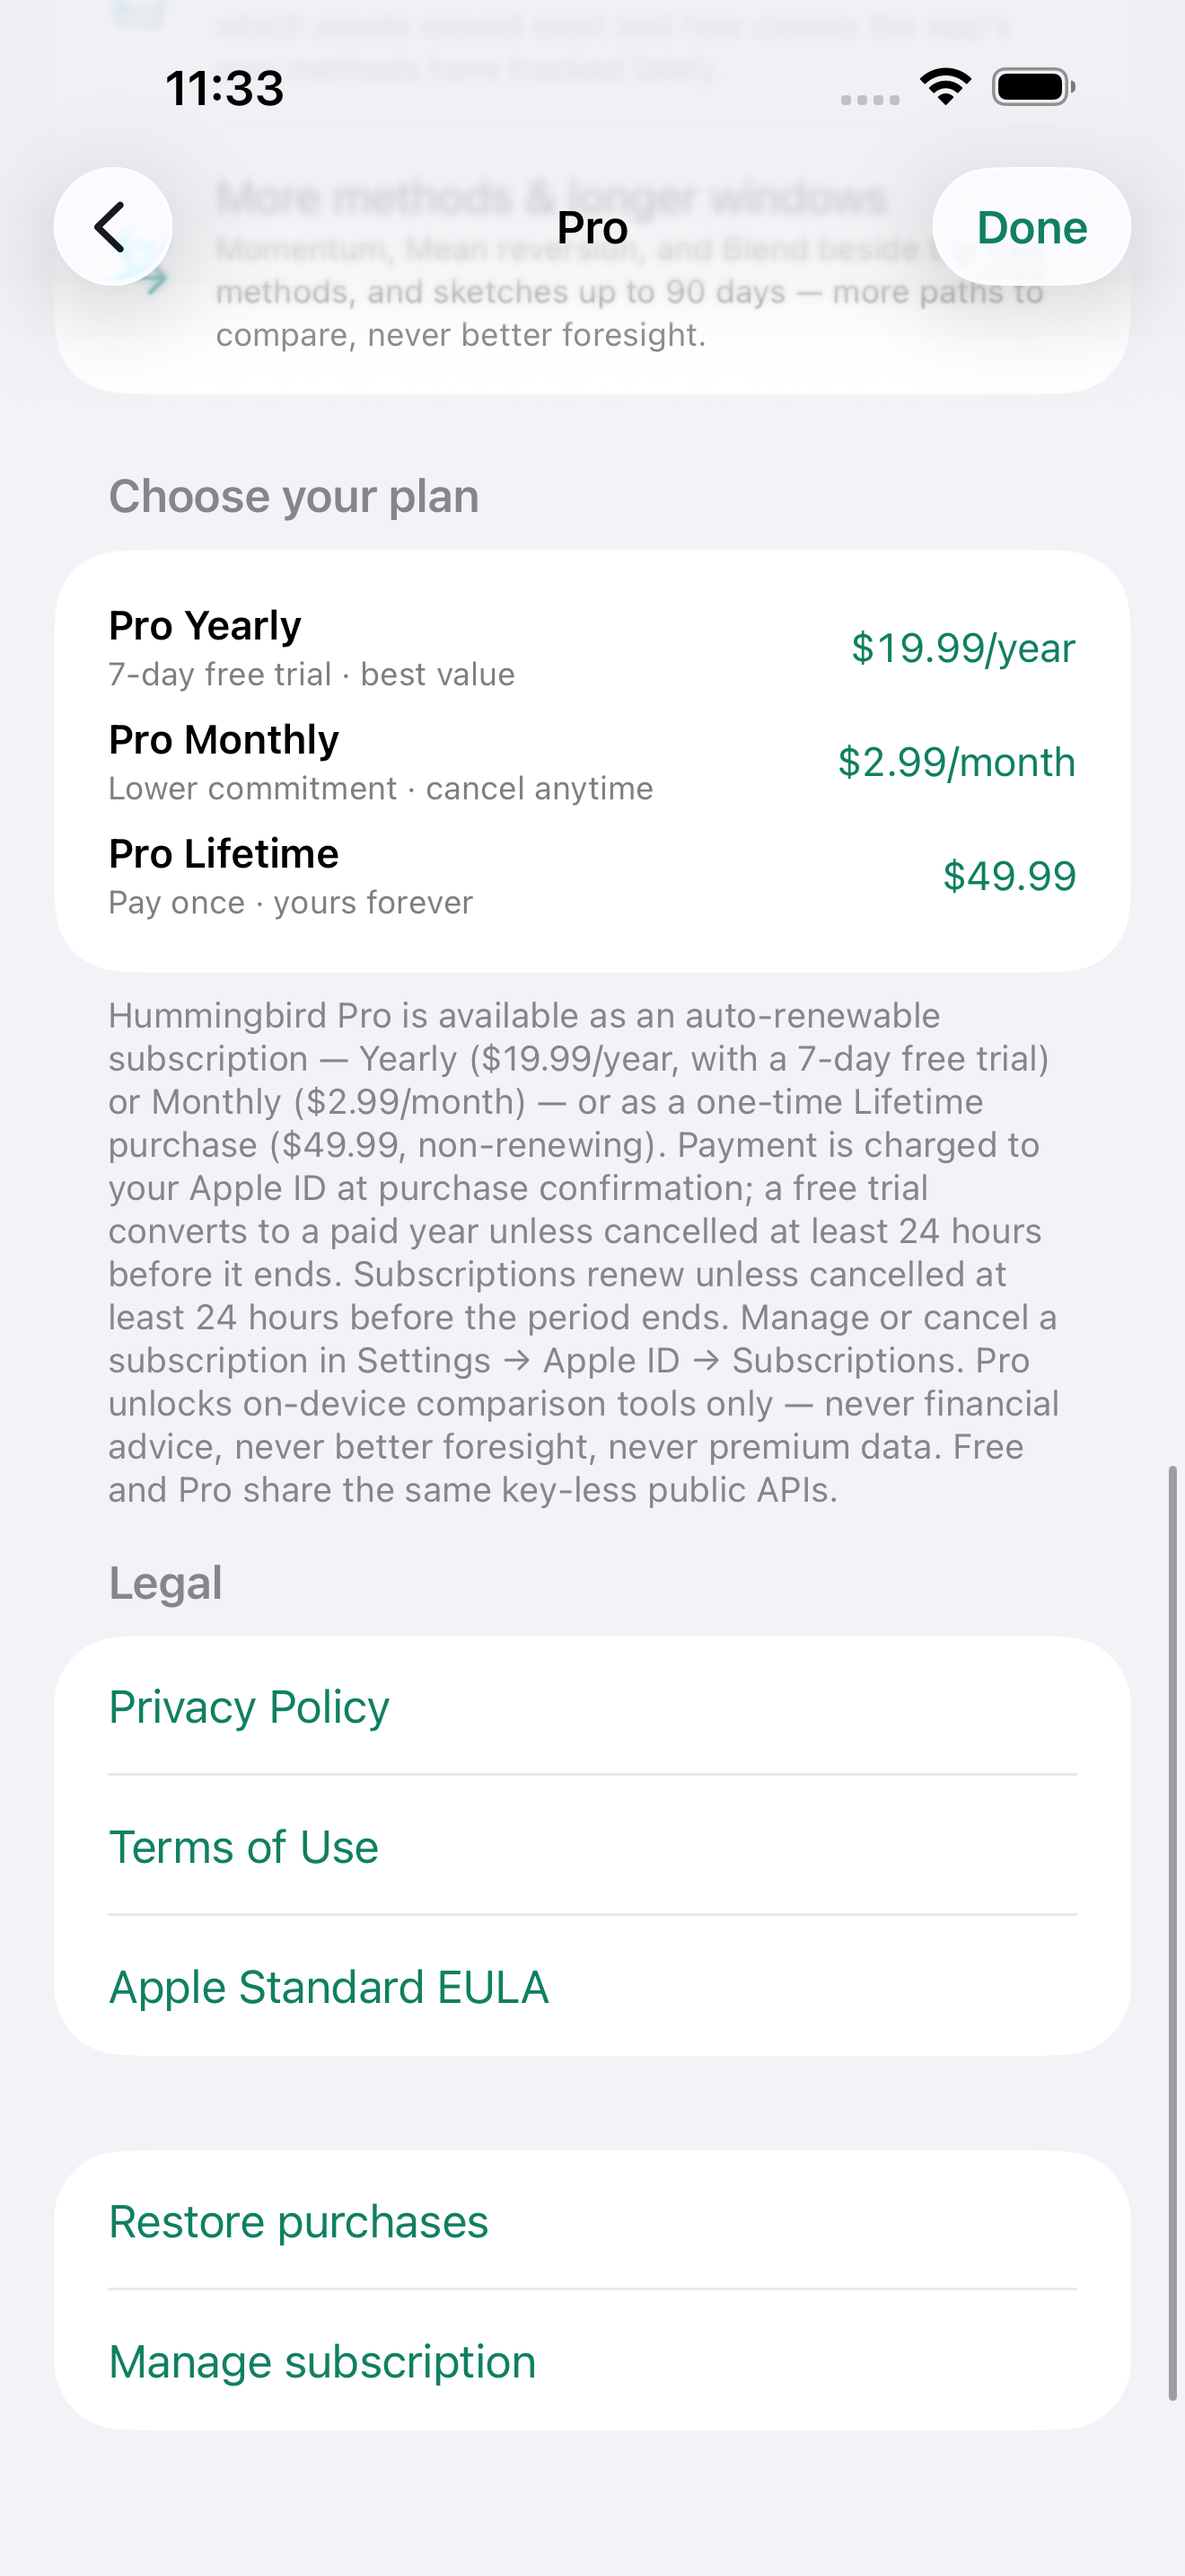
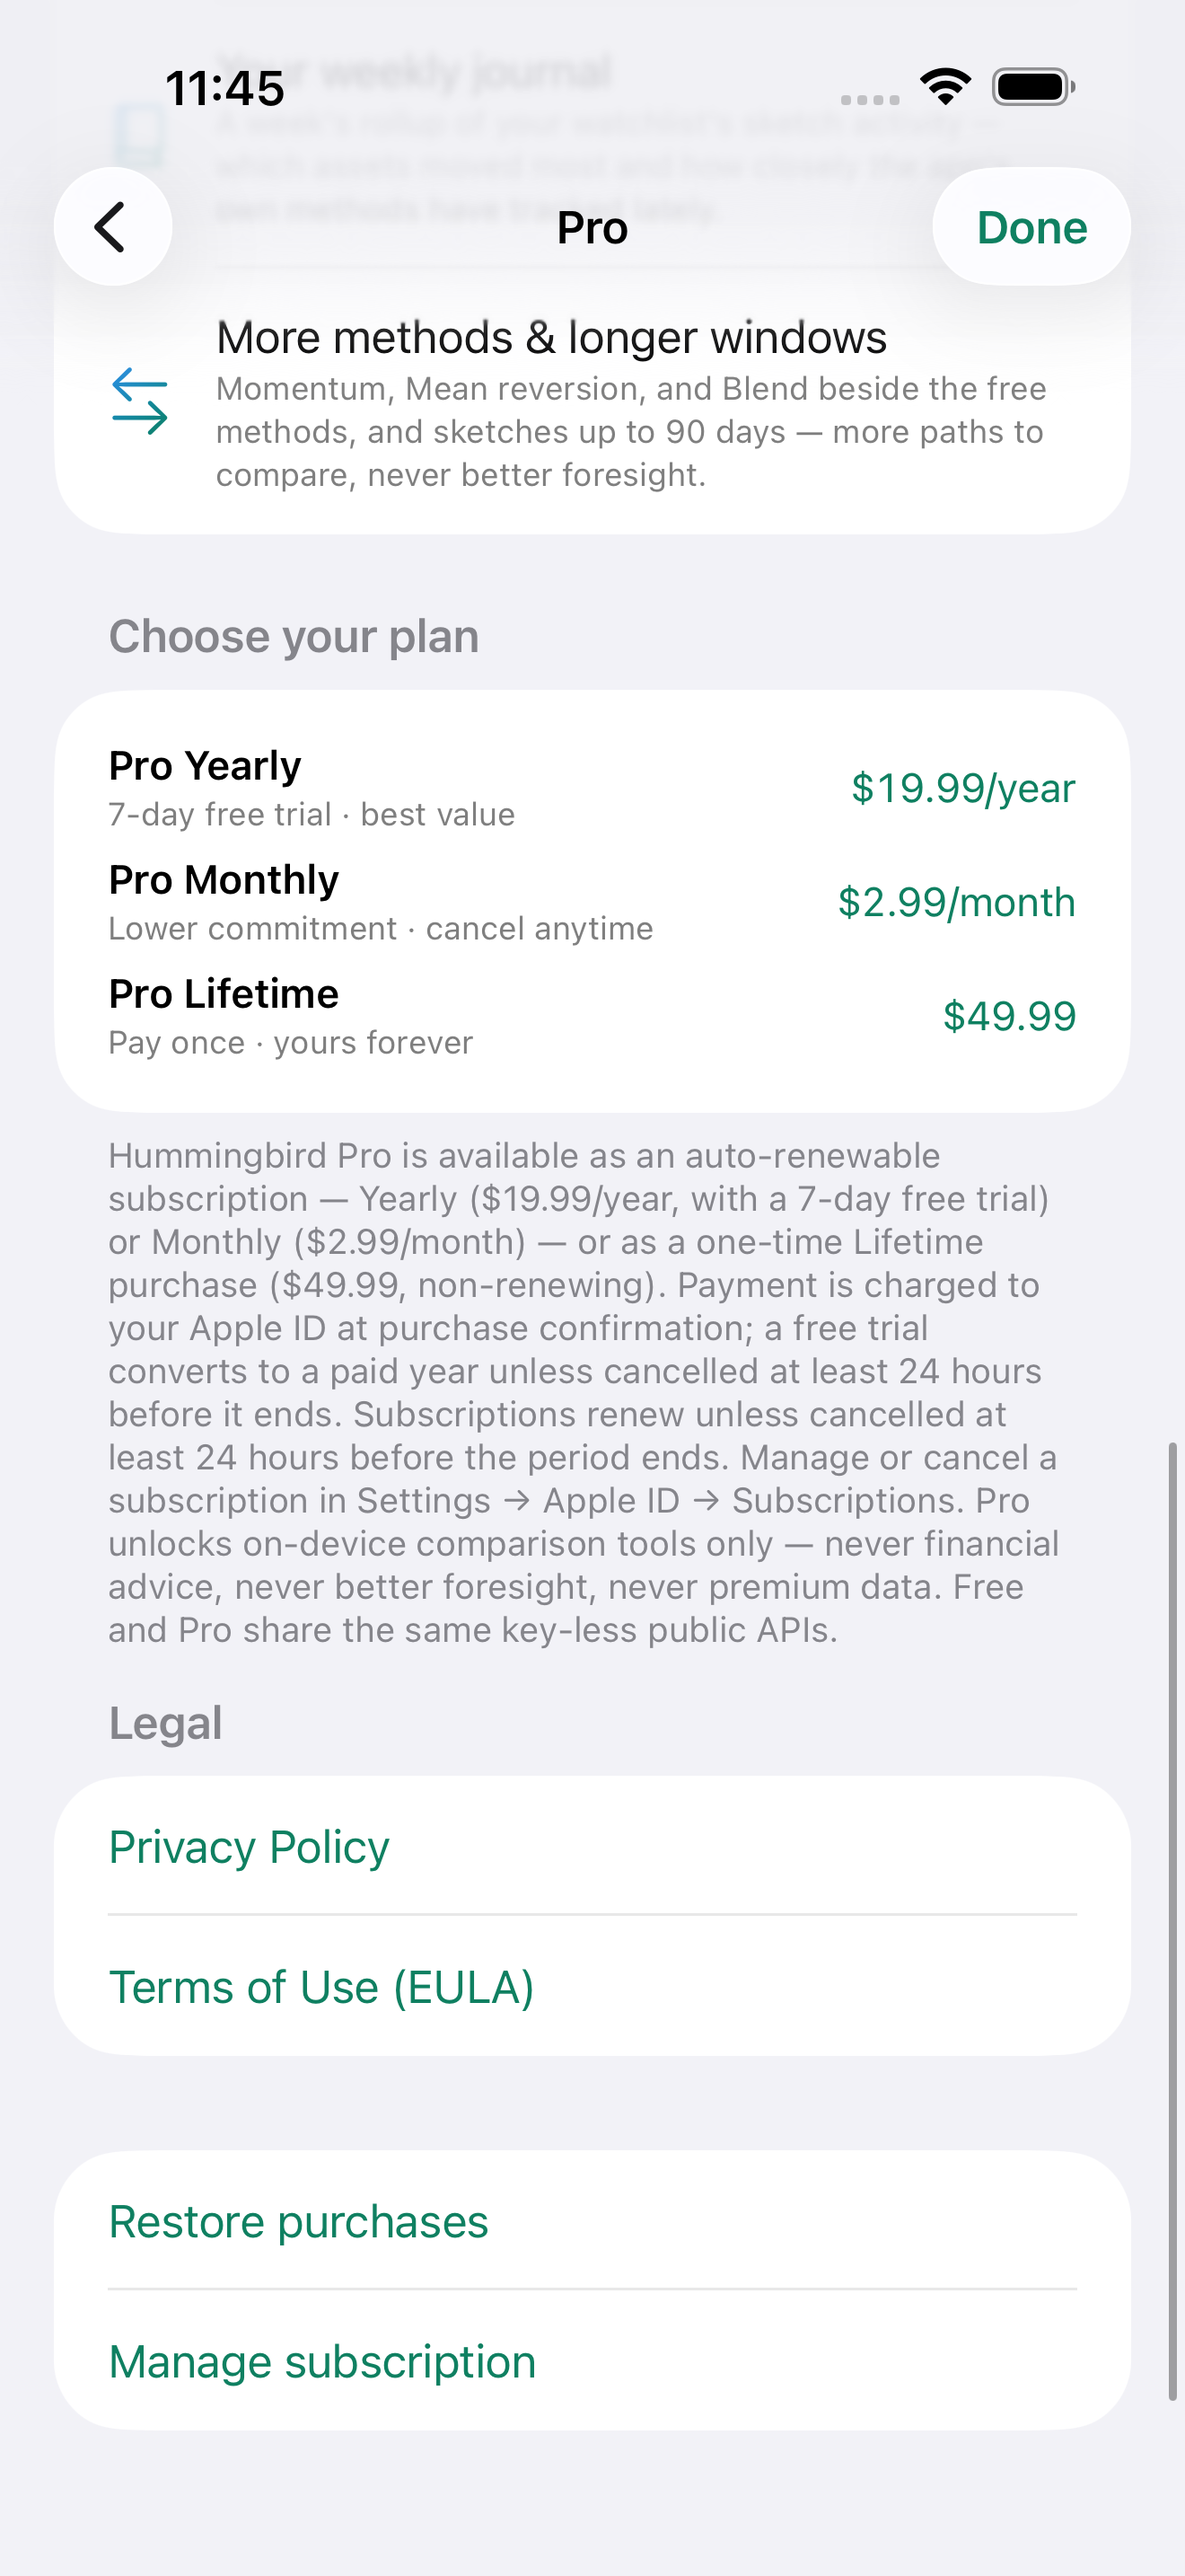
Guideline 3.1.2: functional Terms of Use (EULA) link on every surface
The prior app was rejected on 3.1.2 for a missing Terms-of-Use link in the
product-page metadata. Closes every gap:

- App Description (METADATA.md) now ends with plain-text 'Privacy Policy:' and
  'Terms of Use (EULA):' https:// lines — Apple renders these tappable on the
  product page. Description also states subscription price/period/renewal.
- RELEASE.md: blocking 3.1.2 pre-flight checklist — set ASC License Agreement
  to CUSTOM (terms.html), Privacy Policy URL, verify both return HTTP 200.
- PaywallView: Legal section keeps working Privacy Policy + 'Terms of Use
  (EULA)' rows by the buy buttons; dropped the redundant standalone 'Apple
  Standard EULA' link (the custom TERMS.md already incorporates Apple's
  standard Licensed Application EULA by reference).
- Review notes point the reviewer at all three EULA locations.
- Screenshots 07/08 regenerated for the cleaned Legal section.

315 tests pass, 0 warnings.

Claude-Session: https://claude.ai/code/session_01JU5zcJbM2TTYxVaBMQ7gym

diff --git a/Hummingbird/Views/Monetization/PaywallView.swift b/Hummingbird/Views/Monetization/PaywallView.swift
@@ -151,10 +151,14 @@ struct PaywallView: View {
                 Text(subscriptionFooter)
             }
 
+            // Guideline 3.1.2: an auto-renewable subscription needs functional
+            // Privacy Policy + Terms of Use (EULA) links right by the purchase.
+            // "Terms of Use" opens the bundled custom EULA, which itself
+            // incorporates Apple's standard Licensed Application EULA by
+            // reference — so a separate Apple-EULA link would be redundant.
             Section("Legal") {
                 Button("Privacy Policy") { legalPath = .privacy }
-                Button("Terms of Use") { legalPath = .terms }
-                Link("Apple Standard EULA", destination: URL(string: "https://www.apple.com/legal/internet-services/itunes/dev/stdeula/")!)
+                Button("Terms of Use (EULA)") { legalPath = .terms }
             }
 
             Section {

diff --git a/RELEASE.md b/RELEASE.md
@@ -32,8 +32,10 @@ GitHub Pages on a private repo needs GitHub Pro. Simplest: **make the repo publi
 - [ ] **Subtitle:** `Honest on-device price sketch` (29 chars — see `AppStore/METADATA.md`)
 - [ ] **Keywords:** `bitcoin,ethereum,xrp,ticker,portfolio,market,finance,trend,widget,alert,tracker,price,etf,forecast` (98 chars)
 - [ ] **Category:** Finance (primary), Education (secondary) · **Age:** 4+
-- [ ] Description / promo text / keywords → paste from `AppStore/METADATA.md`
-- [ ] **Privacy Policy URL:** `https://avaj845.github.io/Hummingbirdv1/privacy.html`
+- [ ] Description / promo text / keywords → paste from `AppStore/METADATA.md` — **the Description already ends with `Privacy Policy:` and `Terms of Use (EULA):` https:// lines. Keep them.** (This is the 3.1.2 fix — see below.)
+- [ ] **Privacy Policy URL** (App Information): `https://avaj845.github.io/Hummingbirdv1/privacy.html`
+- [ ] **License Agreement** (App Information) → **Custom** → `https://avaj845.github.io/Hummingbirdv1/terms.html` — **NOT "Standard Apple EULA".** ⚠ **Skipping this = automatic 3.1.2 rejection** for a subscription app.
+- [ ] **Both URLs return HTTP 200** — check in a browser before submitting. If the repo is private, GitHub Pages needs GitHub Pro; make the repo public or enable Pages (§1).
 - [ ] **App Privacy** ("nutrition label"): **Data Not Collected** (no account, no tracking)
 - [ ] **Screenshots** — raw re-shoot is **done**: `AppStore/raw-screens/*.png` are 12 real captures of the *current* UI (1320×2868, from the `HummingbirdUITests` harness — regenerate with the command in `AppStore/METADATA.md` §Screenshots). What's left is a **design pass**: add marketing frames + captions, pick the 3–5 strongest, order honesty-first (`11_accuracy_report` → `05_sketch_result` → `06_reliability` → `12_watchlist` → `04_home_empty`). Upload to the **6.9″** slot + set the 1024 icon (`sh AppStore/icon/render.sh`). The old `AppStore/0*_*.png` predate the round-1/2 UI and must not ship.
 
@@ -70,10 +72,19 @@ xcodebuild -project Hummingbird.xcodeproj -scheme Hummingbird \
 - [ ] Wait for the build to finish **processing** in App Store Connect (~10–30 min).
 
 ## 6 · Submit for review
-- [ ] Attach the processed build to the version, attach the subscription to the submission.
+- [ ] Attach the processed build to the version; attach **all three** Pro products (Yearly, Monthly, Lifetime) to the submission.
 - [ ] **App Review notes:** paste the "Review notes" block from `AppStore/METADATA.md`
       (educational tool, not advice, no trading, no accounts).
 - [ ] **Submit.** Review typically takes ~24–48h.
+
+### 3.1.2 pre-flight (do NOT submit until every box is checked)
+The last app was rejected on 3.1.2 for a missing Terms-of-Use link. All of these must be true:
+- [ ] The **App Description** contains the literal lines `Privacy Policy: https://…` and `Terms of Use (EULA): https://…` (they're in `METADATA.md`'s Description — paste it verbatim, don't trim the tail).
+- [ ] **App Information → License Agreement = Custom**, set to `https://avaj845.github.io/Hummingbirdv1/terms.html`.
+- [ ] **App Information → Privacy Policy URL** set to `https://avaj845.github.io/Hummingbirdv1/privacy.html`.
+- [ ] Open both URLs in a private browser window → each returns a real page (HTTP 200), not a 404.
+- [ ] The Description also states the subscription price, period, and renewal terms (it does — keep that paragraph).
+- [ ] In-app: open the paywall on a device → **Privacy Policy** and **Terms of Use (EULA)** rows both open a readable document.
 
 ---
 
@@ -81,6 +92,8 @@ xcodebuild -project Hummingbird.xcodeproj -scheme Hummingbird \
 - [x] Release build **omits** the debug QA unlock — the `debugUnlocked` property, `setDebugUnlocked`, and both toggle UIs are fully `#if DEBUG`; re-verified with `strings`/`nm` on a Release build (0 occurrences of `debugUnlock` / `proUnlocked` / `TestSupport` / `UITEST_`). Even in a Debug build the toggles need `-DEBUG_MENU`.
 - [x] `isPro` in Release = real StoreKit purchases (or a TestFlight sandbox receipt — never a production App Store install).
 - [x] Legal + not-advice framing on every surface.
+- [x] In-app paywall shows working **Privacy Policy** + **Terms of Use (EULA)** links right by the purchase buttons (`PaywallView` Legal section) — the custom EULA (`TERMS.md` / `terms.html`) incorporates Apple's standard Licensed Application EULA by reference, so no separate Apple-EULA link is needed.
+- [x] `METADATA.md` Description ends with plain-text `Privacy Policy:` / `Terms of Use (EULA):` https:// lines for the App Store product page (Guideline 3.1.2).
 - [x] `CODE_SIGNING_ALLOWED=NO` only for local sim builds — device/release uses your team.
 
 ## Optional after launch

diff --git a/AppStore/METADATA.md b/AppStore/METADATA.md
@@ -34,17 +34,28 @@ Hummingbird draws simple, honest "sketches" of where a stock or cryptocurrency *
 • Get an optional "it moved" alert — movement, never a signal.
 
 **Hummingbird Pro (optional)**
-Compare every method in one place and stretch sketches to 90 days. Same free public data — Pro is convenience, not better foresight.
+Compare every method in one place and stretch sketches to 90 days. Same free public data — Pro is convenience, not better foresight. Hummingbird Pro is offered as an auto-renewable subscription — $19.99/year (7-day free trial) or $2.99/month — or as a one-time Lifetime purchase ($49.99). Payment is charged to your Apple ID at confirmation; a subscription renews unless cancelled at least 24 hours before the period ends, and you can manage or cancel it in your Apple ID settings.
 
 Hummingbird is for learning and exploration only and is **not financial, investment, or trading advice.** Markets are unpredictable; never make money decisions based solely on this app.
+
+Privacy Policy: https://avaj845.github.io/Hummingbirdv1/privacy.html
+Terms of Use (EULA): https://avaj845.github.io/Hummingbirdv1/terms.html
 
 ## What's New (1.0)
 First public release: on-device price sketches for stocks & crypto, method comparison with honest backtests, watchlist, widget, Siri, and shareable sketch cards — educational, never advice.
 
 ## URLs
 - **Support / Marketing:** https://avaj845.github.io/Hummingbirdv1/
-- **Privacy Policy:** https://avaj845.github.io/Hummingbirdv1/privacy.html
-- **Terms of Use (EULA):** https://avaj845.github.io/Hummingbirdv1/terms.html (or Apple standard EULA)
+- **Privacy Policy:** https://avaj845.github.io/Hummingbirdv1/privacy.html  *(paste into the App Store Connect "Privacy Policy URL" field)*
+- **Terms of Use (EULA):** https://avaj845.github.io/Hummingbirdv1/terms.html  *(use as the CUSTOM EULA — see 3.1.2 below)*
+
+## ⚠ Guideline 3.1.2 — Terms of Use / EULA (this is what gets subscription apps rejected)
+An auto-renewable subscription (or non-consumable IAP alongside subs) requires a **functional Terms of Use link on the App Store product page** AND the EULA set in App Store Connect. Do ALL of:
+1. **App Description** — the two links above (`Privacy Policy:` and `Terms of Use (EULA):`) are already in the Description text above its final paragraph. Keep them there, as plain `https://` text — Apple renders them as tappable links on the product page. Do **not** remove them.
+2. **App Store Connect → App Information → License Agreement** → choose **Custom** → paste `https://avaj845.github.io/Hummingbirdv1/terms.html`. (Do not leave it on "Standard Apple EULA" — the custom terms carry the subscription/refund/renewal specifics Apple 3.1.2 looks for.)
+3. **App Store Connect → Privacy Policy URL** (App Information) → `https://avaj845.github.io/Hummingbirdv1/privacy.html`
+4. **Both URLs must return HTTP 200 before submission** — if the repo is private, GitHub Pages needs GitHub Pro; make the repo public or enable Pages.
+5. In-app: the paywall already shows working **Privacy Policy** and **Terms of Use** links right by the purchase buttons (`PaywallView` → Legal section) — that covers 3.1.2's in-binary requirement. Don't remove them.
 
 ## Screenshots (6.9" — 1320×2868)
 
@@ -103,3 +114,5 @@ App icon: `AppIcon-1024.png` (1024×1024, no alpha) — regenerate with
 
 ## Review notes (paste into App Review)
 Hummingbird is an **educational** tool. It produces statistical "sketches" from public historical prices and clearly labels them as not predictions and **not financial advice** throughout (onboarding, results, share card, alerts, paywall). It contains no buy/sell signals, no brokerage, and no real-money trading. Pro (a yearly/monthly auto-renewable subscription or a one-time non-consumable "Lifetime" unlock — same features) unlocks on-device comparison convenience only, on identical public data to the free tier.
+
+Terms of Use (EULA) and Privacy Policy: linked at the end of the App Description, set in App Store Connect (License Agreement = custom terms.html), and shown in-app on the paywall (Pro screen → Legal). Subscription price, length, and renewal terms are stated in the App Description and on the paywall.
